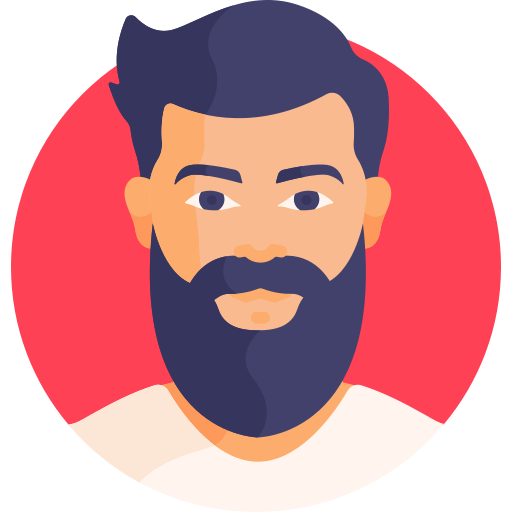
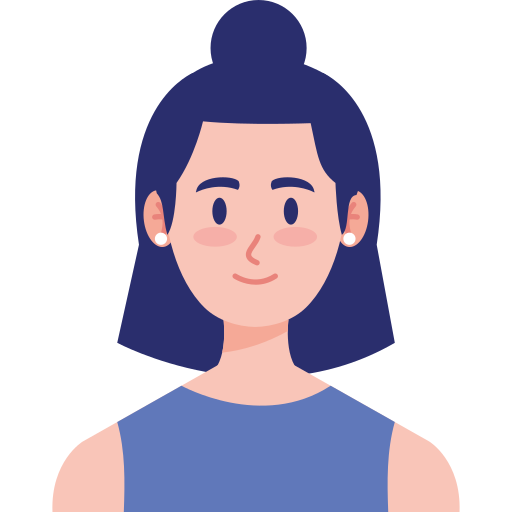
Alterando elementos do navbar

diff --git a/src/main/resources/static/index.html b/src/main/resources/static/index.html
@@ -20,14 +20,13 @@
             <div class="bar"></div>
             <div class="bar"></div>
         </div>
+            <span class="menu-text">Menu</span>
         <div class="menu" id="menu">
             <ul>
                 <li><a class="menu-botao" href="">Salões</a></li>
                 <li><a class="menu-botao" href="pages/agendamentos.html">Agendamentos</a></li>
                 <li><a class="menu-botao" href="pages/favoritos.html">Favoritos</a></li>
-                <li><a class="menu-botao" href="">Historico</a></li>
                 <li><a class="menu-botao" href="pages/quiz.html">Quiz</a></li>
-                <li><a class="menu-botao" href="pages/horario.html">Serviços</a></li>
             </ul>
         </div>
             <div class="button-container" id="button-index">

diff --git a/src/main/resources/static/css/main.css b/src/main/resources/static/css/main.css
@@ -39,10 +39,20 @@ nav .menu-icon {
     height: 40px;
     cursor: pointer;
 }
+.menu-text {
+    padding-right: 65%;
+    font-family: 'Roboto Slab', sans-serif;
+    font-size: 1.2em;
+    font-weight: bold;
+    color: #ffffff;
+    user-select: none;
+    transition: color 0.2s;
+}
+
 .menu-icon .bar{
     width: 38px;
     height: 10px;
-    background-color: #85373F;
+    background-color: #f0f0f0;
     margin: 3px 0;
     border-radius: 2px;
     transition: transform 0.3s;

diff --git a/src/main/resources/static/pages/quiz.html b/src/main/resources/static/pages/quiz.html
@@ -26,7 +26,6 @@
                 <li><a class="menu-botao" href="../index.html">Salões</a></li>
                 <li><a class="menu-botao" href="agendamentos.html">Agendamentos</a></li>
                 <li><a class="menu-botao" href="favoritos.html">Favoritos</a></li>
-                <li><a class="menu-botao" href="">Historico</a></li>
                 <li><a class="menu-botao" href="">Quiz</a></li>
             </ul>
         </div>

diff --git a/src/main/resources/static/pages/servicos.html b/src/main/resources/static/pages/servicos.html
@@ -28,7 +28,6 @@
                 <li><a class="menu-botao" href="../index.html">Salões</a></li>
                 <li><a class="menu-botao" href="agendamentos.html">Agendamentos</a></li>
                 <li><a class="menu-botao" href="favoritos.html">Favoritos</a></li>
-                <li><a class="menu-botao" href="">Historico</a></li>
                 <li><a class="menu-botao" href="">Quiz</a></li>
             </ul>
         </div>

diff --git a/src/main/resources/static/pages/agendamentos.html b/src/main/resources/static/pages/agendamentos.html
@@ -29,7 +29,6 @@
                 <li><a class="menu-botao" href="../index.html">Salões</a></li>
                 <li><a class="menu-botao" href="agendamentos.html">Agendamentos</a></li>
                 <li><a class="menu-botao" href="">Favoritos</a></li>
-                <li><a class="menu-botao" href="">Historico</a></li>
                 <li><a class="menu-botao" href="quiz.html">Quiz</a></li>
             </ul>
         </div>

diff --git a/src/main/resources/static/pages/favoritos.html b/src/main/resources/static/pages/favoritos.html
@@ -26,7 +26,6 @@
                 <li><a class="menu-botao" href="../index.html">Salões</a></li>
                 <li><a class="menu-botao" href="agendamentos.html">Agendamentos</a></li>
                 <li><a class="menu-botao" href="">Favoritos</a></li>
-                <li><a class="menu-botao" href="">Historico</a></li>
                 <li><a class="menu-botao" href="quiz.html">Quiz</a></li>
             </ul>
         </div>

diff --git a/src/main/resources/static/pages/horario.html b/src/main/resources/static/pages/horario.html
@@ -30,7 +30,6 @@
                 <li><a class="menu-botao" href="../index.html">Salões</a></li>
                 <li><a class="menu-botao" href="agendamentos.html">Agendamentos</a></li>
                 <li><a class="menu-botao" href="">Favoritos</a></li>
-                <li><a class="menu-botao" href="">Historico</a></li>
                 <li><a class="menu-botao" href="quiz.html">Quiz</a></li>
             </ul>
         </div>

diff --git a/src/main/resources/static/css/index.css b/src/main/resources/static/css/index.css
@@ -74,7 +74,7 @@ main{
     min-width: 250px;
     min-height: 200px;
     margin: 10px 10px 10px 10px;
-    border-radius: 30px;
+    border-radius: 10px;
     box-shadow: -10px -10px 1px #E6A6B1;
     background-color: #FAECF2;
     overflow: hidden;
